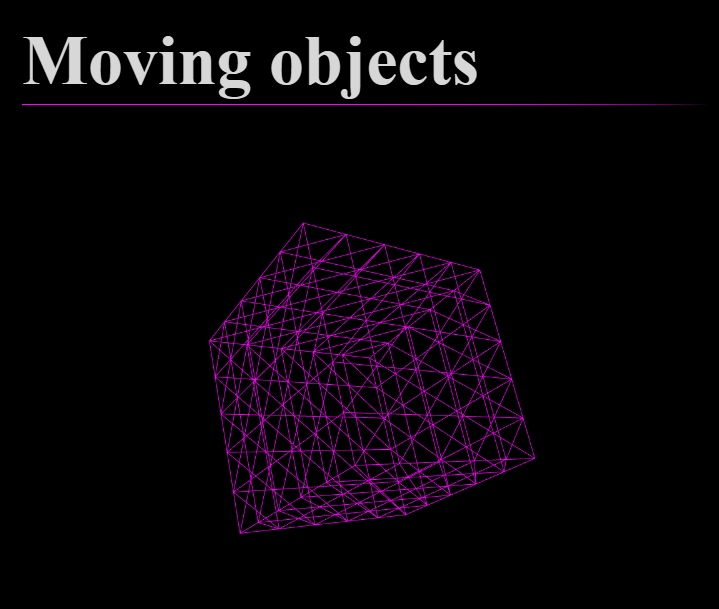
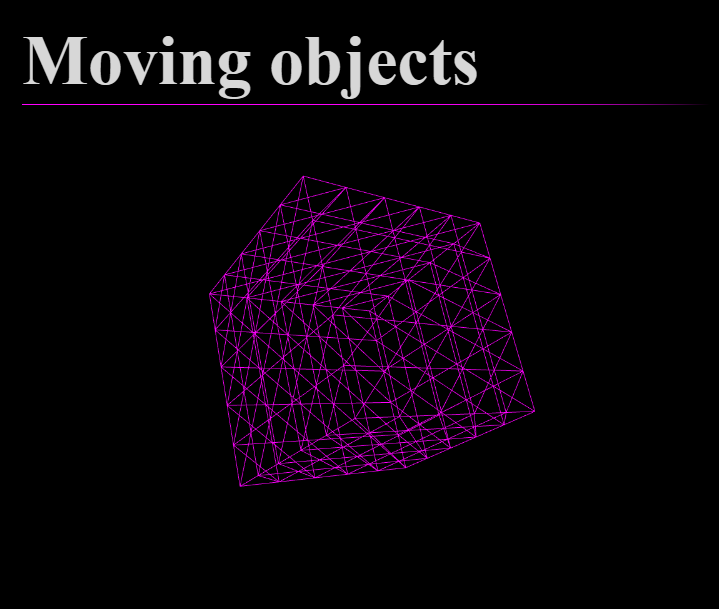
Updates

Changed region(s): [[0.2754, 0.2808, 0.7344, 0.8736]]

diff --git a/Three.js/Geometry_Buffers/main.js b/Three.js/Geometry_Buffers/main.js
@@ -1,0 +1,188 @@
+import * as THREE from 'https://cdn.jsdelivr.net/npm/three@0.125.2/build/three.module.js'
+
+// Camera properties
+const cameraProperties = {
+ windowWidth: window.innerWidth,
+ windowHeight: window.innerHeight,
+ fieldOfView: 75,
+ aspectRatio: window.innerWidth / window.innerHeight,
+ nearPlane: 0.1,
+ farPlane: 100
+}
+
+// 1. Scene.
+const scene = new THREE.Scene()
+
+// 2. Renderer.
+const renderer = new THREE.WebGLRenderer();
+renderer.setClearColor(0x323232)
+renderer.setSize(window.innerWidth, window.innerHeight)
+document.body.appendChild(renderer.domElement)
+
+// 3. Camera.
+const camera = new THREE.PerspectiveCamera(
+    cameraProperties.fieldOfView, cameraProperties.aspectRatio, cameraProperties.nearPlane, cameraProperties.farPlane
+)
+camera.translateOnAxis(new THREE.Vector3(0, 0, 1), 10)
+//-----------------------------------------
+
+const vertices01 = new Float32Array([
+    -1.0, -1.0, 1.0,
+     1.0, -1.0, 1.0,
+     1.0,  1.0, 1.0,
+
+     -1.0, 1.0, 1.0,
+     -1.0, -1.0, 1.0,
+      1.0, 1.0, 1.0     
+])
+
+const bufferGeometry01 = new THREE.BufferGeometry();
+bufferGeometry01.setAttribute("position", new THREE.BufferAttribute(vertices01, 3));
+const material01 = new THREE.MeshBasicMaterial({color:0x00FFFF})
+const mesh01 = new THREE.Mesh(bufferGeometry01, material01)
+
+mesh01.translateOnAxis(new THREE.Vector3(1, 0, 0), -2)
+mesh01.rotateOnAxis(new THREE.Vector3(0, 0, 1), 0.7)
+
+scene.add(mesh01)
+
+// ----------------------------------------
+
+const vertices02 = new Float32Array([
+    -1.0, -1.0, 1.0,
+     1.0, -1.0, 1.0,
+     1.0,  1.0, 1.0,
+    -1.0,  1.0, 1.0
+])
+
+const indices02 =[
+    0, 1, 2,
+    2, 3, 0
+]
+
+const bufferGeometry02 = new THREE.BufferGeometry()
+bufferGeometry02.setIndex(indices02);
+bufferGeometry02.setAttribute(
+    'position', 
+    new THREE.BufferAttribute(vertices02, 3)
+);
+
+const material02 = new THREE.MeshBasicMaterial({color: 0xFAFFCC})
+
+const mesh02 = new THREE.Mesh(bufferGeometry02, material02);
+mesh02.rotateOnAxis(new THREE.Vector3(0, 0, 1), 0.7)
+scene.add(mesh02)
+
+//-----------------------------------------
+
+const vertices03 = new Float32Array([
+    -1.0,-1.0,-1.0,
+    -1.0,-1.0, 1.0,
+    -1.0, 1.0, 1.0, 
+    1.0, 1.0,-1.0,
+    -1.0,-1.0,-1.0,
+    -1.0, 1.0,-1.0,
+    1.0,-1.0, 1.0,
+    -1.0,-1.0,-1.0,
+    1.0,-1.0,-1.0,
+    1.0, 1.0,-1.0,
+    1.0,-1.0,-1.0,
+    -1.0,-1.0,-1.0,
+    -1.0,-1.0,-1.0,
+    -1.0, 1.0, 1.0,
+    -1.0, 1.0,-1.0,
+    1.0,-1.0, 1.0,
+    -1.0,-1.0, 1.0,
+    -1.0,-1.0,-1.0,
+    -1.0, 1.0, 1.0,
+    -1.0,-1.0, 1.0,
+    1.0,-1.0, 1.0,
+    1.0, 1.0, 1.0,
+    1.0,-1.0,-1.0,
+    1.0, 1.0,-1.0,
+    1.0,-1.0,-1.0,
+    1.0, 1.0, 1.0,
+    1.0,-1.0, 1.0,
+    1.0, 1.0, 1.0,
+    1.0, 1.0,-1.0,
+    -1.0, 1.0,-1.0,
+    1.0, 1.0, 1.0,
+    -1.0, 1.0,-1.0,
+    -1.0, 1.0, 1.0,
+    1.0, 1.0, 1.0,
+    -1.0, 1.0, 1.0,
+    1.0,-1.0, 1.0   
+])
+
+const bufferGeometry03 = new THREE.BufferGeometry();
+bufferGeometry03.setAttribute("position", new THREE.BufferAttribute(vertices03, 3));
+const material03 = new THREE.MeshBasicMaterial({color:0xAAFF88})
+const mesh03 = new THREE.Mesh(bufferGeometry03, material03)
+
+mesh03.translateOnAxis(new THREE.Vector3(1, 0, 0), -5)
+mesh03.rotateOnAxis(new THREE.Vector3(0, 0, 1), 0.7)
+
+scene.add(mesh03)
+
+// ----------------------------------------
+
+const vertices04 = new Float32Array([
+    -1, -1, 1,
+    1, -1, 1,
+    1, 1, 1,
+    -1, 1, 1,
+    -1, -1, -1,
+    1, -1, -1,
+    1, 1, -1,
+    -1, 1, -1
+])
+
+const indices04 =[
+    0, 1, 2, 
+    2, 3, 0, 
+    1, 5, 6, 
+    6, 2, 1, 
+    7, 6, 5, 
+    5, 4, 7,
+    4, 0, 3, 
+    3, 7, 4, 
+    4, 5, 1, 
+    1, 0, 4, 
+    3, 2, 6, 
+    6, 7, 3
+]
+
+const bufferGeometry04 = new THREE.BufferGeometry()
+bufferGeometry04.setIndex(indices04);
+bufferGeometry04.setAttribute(
+    'position', 
+    new THREE.BufferAttribute(vertices04, 3)
+);
+
+const material04 = new THREE.MeshBasicMaterial({color: 0xAAFF00})
+
+const mesh04 = new THREE.Mesh(bufferGeometry04, material04);
+mesh04.translateOnAxis(new THREE.Vector3(1, 0, 0), 3.0)
+scene.add(mesh04)
+
+// ----------------------------------------
+// RENDERING SCENE
+const rotationSpeed = 0.05
+const angle = 0.7
+var time = 100
+function renderFrame()
+{
+    if(time <= 0){
+        time = 75
+        mesh02.material.wireframe = !mesh02.material.wireframe
+        mesh04.material.wireframe = !mesh04.material.wireframe
+    }
+    time--
+    mesh01.rotateOnAxis(new THREE.Vector3(0, 0, 1), angle * rotationSpeed)
+    mesh02.rotateOnAxis(new THREE.Vector3(0, 0, 1), angle * rotationSpeed)
+    mesh03.rotateOnAxis(new THREE.Vector3(0, 1, 1), angle * rotationSpeed)
+    mesh04.rotateOnAxis(new THREE.Vector3(1, 0, 1), angle * rotationSpeed)
+    requestAnimationFrame(renderFrame);
+    renderer.render(scene, camera)
+}
+renderFrame()

diff --git a/Three.js/Geometry_Buffers/index.html b/Three.js/Geometry_Buffers/index.html
@@ -1,0 +1,39 @@
+<!DOCTYPE html>
+<html lang="en">
+	<head>
+		<meta charset="utf-8">
+		<title>Colored Rectangles</title>
+		<style>
+			body {
+				background-color: black;
+				margin: 0;
+			  }
+			  
+			  #heading {
+				position: fixed;
+				width: 100%;
+				padding: 64px;
+			  }
+			  
+			  .border {
+				background: linear-gradient(90deg, rgb(21, 255, 0), 90%, black);
+				height: 2px;
+				width: 1100px;
+				margin-top: 4px;
+			  }
+			  
+			  h3 {
+				color: rgb(215, 215, 215);
+				font-size: 7em;
+				margin: 0px;
+			  }
+		</style>
+	</head>
+	<body>
+		<div id="heading">
+			<h3>Geometry Buffers</h3>
+			<div class="border"></div>
+		</div>
+		<script type="module" src="main.js"></script>
+	</body>
+</html>

diff --git a/Three.js/index.html b/Three.js/index.html
@@ -76,6 +76,14 @@
 				  <a href="./Moving_Objects/" class="btn btn-primary">Check it!</a>
 				</div>
 			</div>
+			<div class="card" style="width:400px">
+				<img class="card-img-top" src="./public/Geometry_Buffers.png" alt="Card image" style="width:100%">
+				<div class="card-body">
+				  <h4 class="card-title">Geometry Buffers</h4>
+				  <p class="card-text">Creating geometry shapes by using geometry buffers that includes positions, UV and normals.</p>
+				  <a href="./Geometry_Buffers/" class="btn btn-primary">Check it!</a>
+				</div>
+			</div>
 		</div>
 			<script type="module" src="main.js"></script>
     </body>
